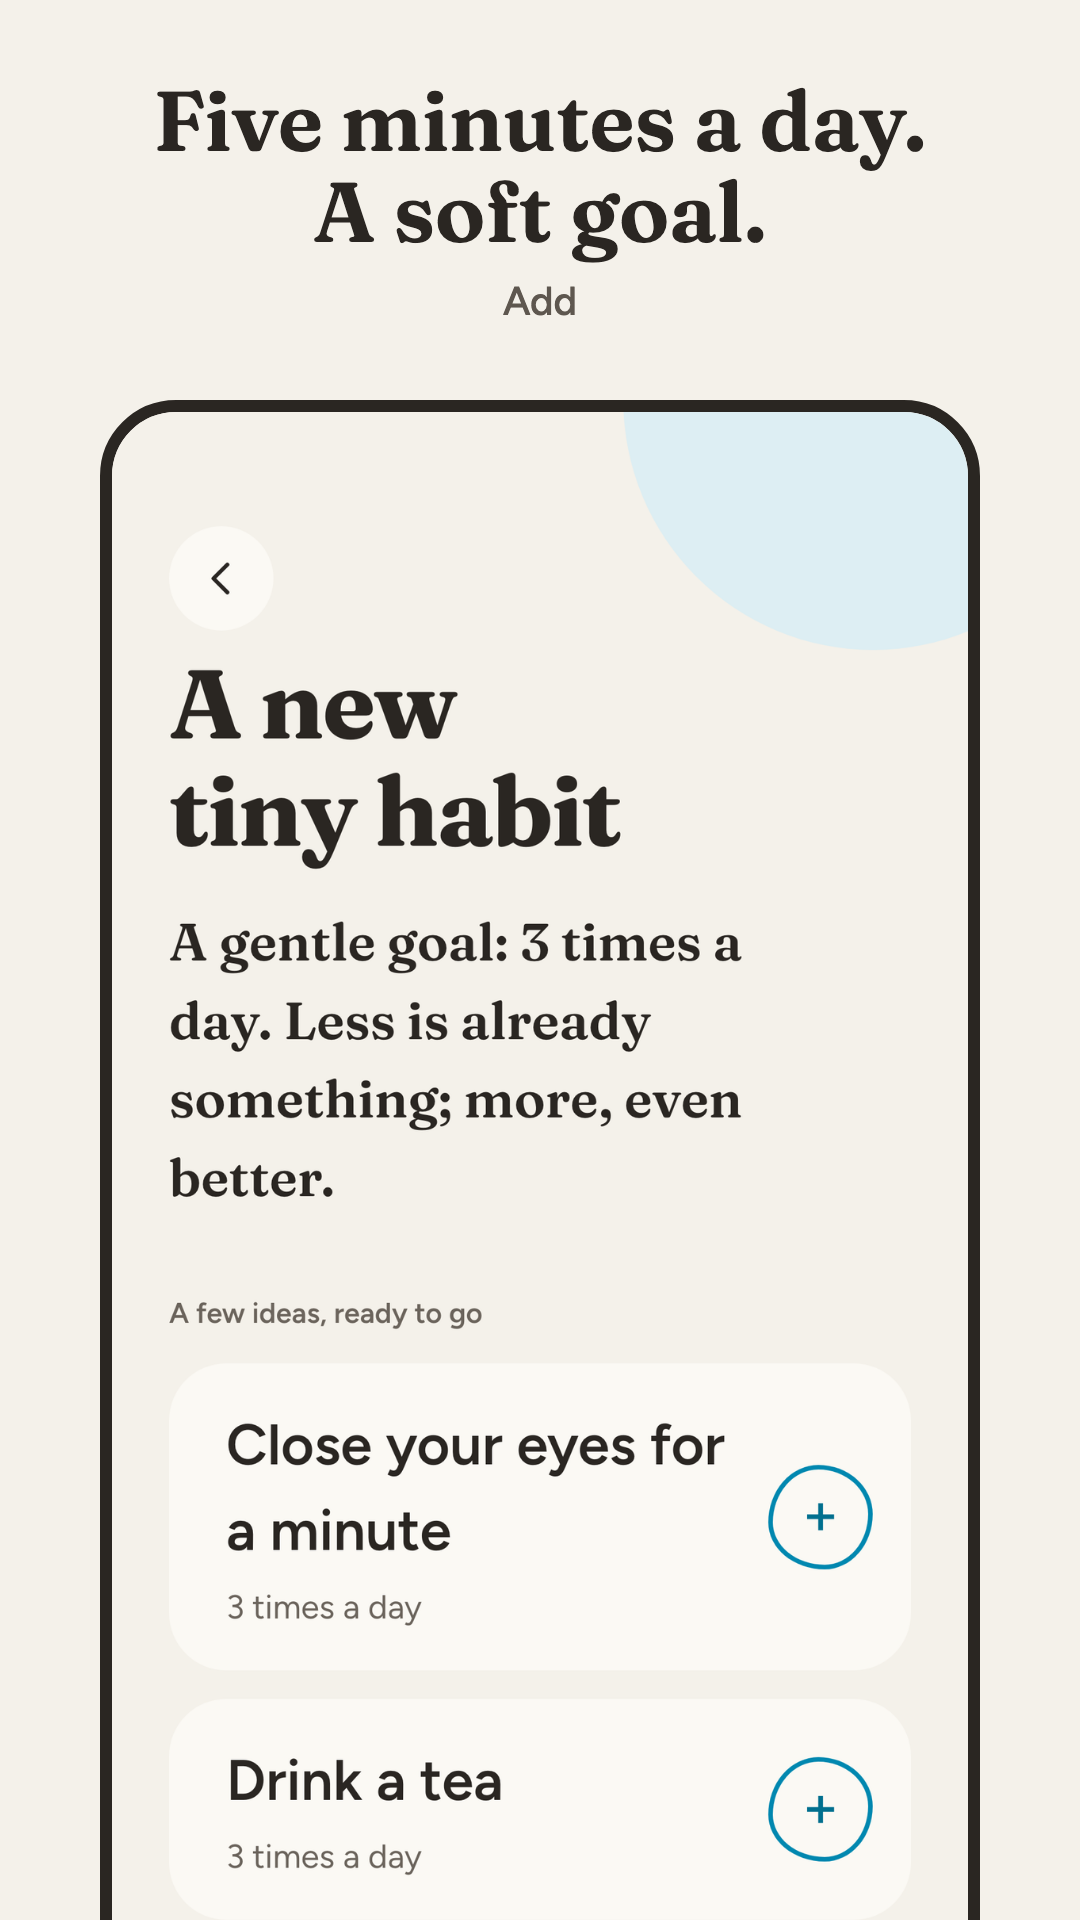
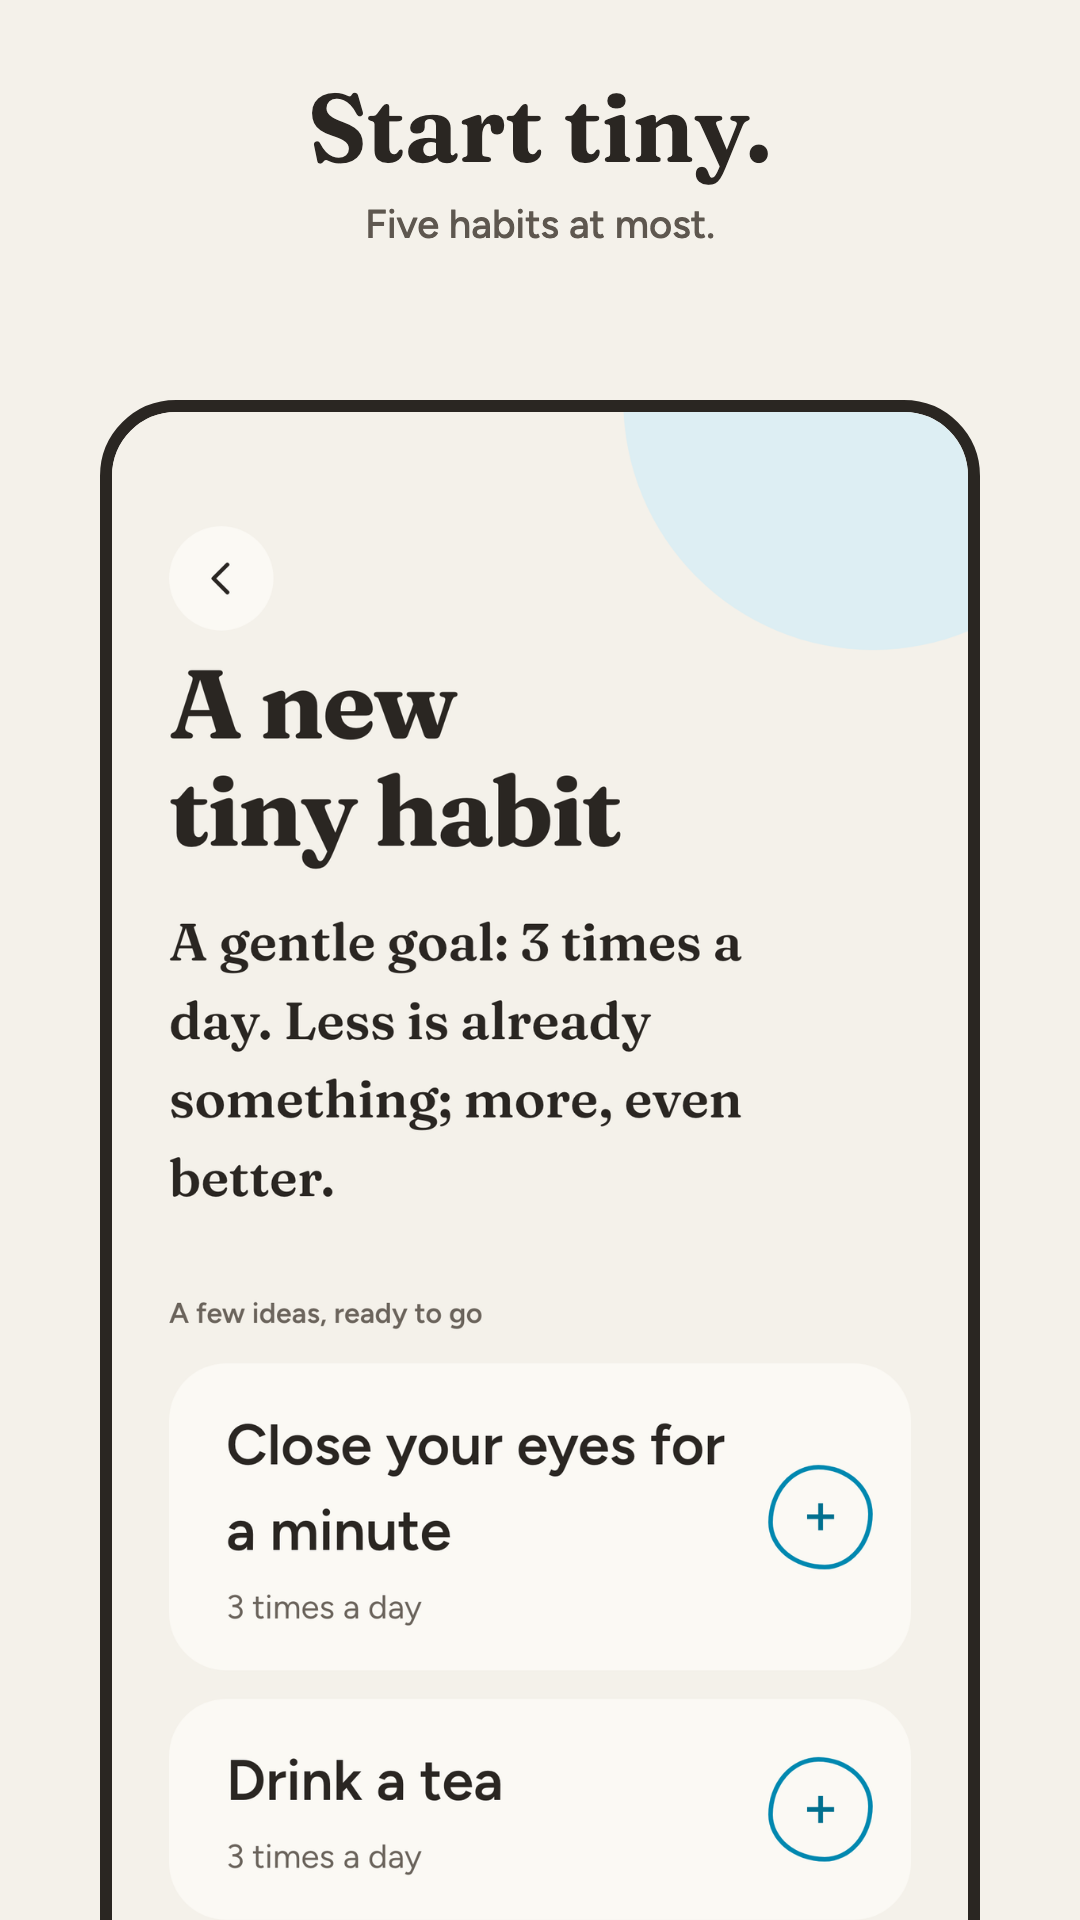
S41: store tiles carry the approved order, headlines and sublines

Changed region(s): [[0.1528, 0.0312, 0.8556, 0.1562], [0.4583, 0.1562, 0.5194, 0.1875]]

diff --git a/store/listing/build_store_tiles.py b/store/listing/build_store_tiles.py
@@ -48,22 +48,25 @@ MUTED = "#5E574F"
 
 TILES = {
     "fr": [
-        ("01-aujourdhui", 0, "Cinq habitudes au plus.<br>Jamais six.", "Aujourd'hui"),
-        ("02-detail", 0, "Sept jours, sans note<br>ni pourcentage.", "Le détail"),
-        ("03-rituel", 0, "Un cercle qui respire.<br>Rien d'autre à faire.", "Le rituel"),
-        ("04-semaine", 0, "Ce qui a eu lieu.<br>Rien de plus.", "La semaine"),
-        ("05-ancrees", 0, "Une habitude ancrée<br>libère une place.", "Ancrées"),
-        ("06-ajouter", 0, "Cinq minutes par jour.<br>Un but souple.", "Ajouter"),
+        ("01-aujourdhui", "01-aujourdhui", 0, "Un petit pas suffit.", "Pas de série, pas de pression."),
+        ("02-detail", "02-detail", 0, "Un jour sans ? Rien ne casse.", "Aucune série à protéger."),
+        ("03-semaine", "04-semaine", 0, "Votre rythme, pas le nôtre.", "Plus ou moins : vous décidez."),
+        ("04-rituel", "03-rituel", 0, "Un moment pour vous.", "Arrêter n'est pas échouer."),
+        ("05-ancrees", "05-ancrees", 0, "Devenue naturelle ? Ancrez-la.", "Elle libère une place."),
+        ("06-ajouter", "06-ajouter", 0, "Commencez tout petit.", "Cinq habitudes au plus."),
     ],
     "en": [
-        ("01-aujourdhui", 0, "Five habits at most.<br>Never six.", "Today"),
-        ("02-detail", 0, "Seven days, no score<br>and no percentage.", "The detail"),
-        ("03-rituel", 0, "A circle that breathes.<br>Nothing else to do.", "The ritual"),
-        ("04-semaine", 0, "What happened.<br>Nothing more.", "This week"),
-        ("05-ancrees", 0, "An anchored habit<br>frees a seat.", "Anchored"),
-        ("06-ajouter", 0, "Five minutes a day.<br>A soft goal.", "Add"),
+        ("01-aujourdhui", "01-aujourdhui", 0, "One small step is enough.", "No streaks, no pressure."),
+        ("02-detail", "02-detail", 0, "Skip a day. Nothing breaks.", "No streak to protect."),
+        ("03-semaine", "04-semaine", 0, "Your pace, not ours.", "More or less: you decide."),
+        ("04-rituel", "03-rituel", 0, "A moment for yourself.", "Stopping isn't failing."),
+        ("05-ancrees", "05-ancrees", 0, "Became natural? Anchor it.", "It frees up a seat."),
+        ("06-ajouter", "06-ajouter", 0, "Start tiny.", "Five habits at most."),
     ],
 }
+
+HEADLINE_MAX_WORDS = 7
+SUBLINE_MAX_WORDS = 6
 
 TILE_HTML = """<!doctype html>
 <meta charset="utf-8">
@@ -90,7 +93,7 @@ TILE_HTML = """<!doctype html>
   .copy {{ position: absolute; top: 76px; left: 48px; right: 48px; }}
   .headline {{
     font-family: 'Fraunces', Georgia, serif;
-    font-size: 84px;
+    font-size: 96px;
     line-height: 1.08;
     color: {ink};
     font-variation-settings: 'wght' 620, 'opsz' 72, 'SOFT' 30;
@@ -199,16 +202,26 @@ def check_text_band(img):
         raise ValueError(f"text band is {last + 1}px tall, the limit is {BAND_MAX}px")
 
 
+def check_copy(headline, subline):
+    if len(headline.split()) > HEADLINE_MAX_WORDS:
+        raise ValueError(f"headline has more than {HEADLINE_MAX_WORDS} words: {headline!r}")
+    if len(subline.split()) > SUBLINE_MAX_WORDS:
+        raise ValueError(f"subline has more than {SUBLINE_MAX_WORDS} words: {subline!r}")
+
+
 def check_clean_cuts(ink, crop_top):
+    if crop_top + VISIBLE_ROWS > len(ink):
+        raise ValueError(f"the bleed ends at capture row {crop_top + VISIBLE_ROWS}, past the {len(ink)} rows")
     for y in (crop_top, crop_top + VISIBLE_ROWS):
         if 0 < y < len(ink) and (ink[y - 1] or ink[y]):
             raise ValueError(f"the bleed cuts a line of text at capture row {y}")
 
 
-def compose(chrome, locale, name, crop_top, headline, subline, work):
+def compose(chrome, locale, name, capture, crop_top, headline, subline, work):
     from PIL import Image
 
-    shot = capture_path(locale, name)
+    check_copy(headline, subline)
+    shot = capture_path(locale, capture)
     check_clean_cuts(ink_rows(Image.open(shot)), crop_top)
 
     page = TILE_HTML.format(
@@ -219,7 +232,7 @@ def compose(chrome, locale, name, crop_top, headline, subline, work):
         phone_top=PHONE_TOP, phone_left=(TILE_W - PHONE_W) // 2,
         phone_w=PHONE_W, phone_h=TILE_H, frame=FRAME, screen_w=SCREEN_W,
         crop=round(crop_top * SCREEN_W / CAPTURE_W),
-        headline=headline, subline=html_escape.escape(subline),
+        headline=html_escape.escape(headline), subline=html_escape.escape(subline),
     )
 
     src = os.path.join(work, f"{name}-tile.html")
@@ -257,8 +270,8 @@ def main():
         work = os.path.join(WORK, locale)
         os.makedirs(work, exist_ok=True)
         os.makedirs(os.path.join(OUT, locale), exist_ok=True)
-        for name, crop_top, headline, subline in tiles:
-            path = compose(chrome, locale, name, crop_top, headline, subline, work)
+        for name, capture, crop_top, headline, subline in tiles:
+            path = compose(chrome, locale, name, capture, crop_top, headline, subline, work)
             print(f"  {os.path.relpath(path, ROOT)}")
 
 

diff --git a/store/listing/test_build_store_tiles.py b/store/listing/test_build_store_tiles.py
@@ -24,14 +24,60 @@ def sand_with_line(y0, y1):
     return img
 
 
+APPROVED = {
+    "fr": [
+        ("01-aujourdhui", "01-aujourdhui", 0, "Un petit pas suffit.", "Pas de série, pas de pression."),
+        ("02-detail", "02-detail", 0, "Un jour sans ? Rien ne casse.", "Aucune série à protéger."),
+        ("03-semaine", "04-semaine", 0, "Votre rythme, pas le nôtre.", "Plus ou moins : vous décidez."),
+        ("04-rituel", "03-rituel", 0, "Un moment pour vous.", "Arrêter n'est pas échouer."),
+        ("05-ancrees", "05-ancrees", 0, "Devenue naturelle ? Ancrez-la.", "Elle libère une place."),
+        ("06-ajouter", "06-ajouter", 0, "Commencez tout petit.", "Cinq habitudes au plus."),
+    ],
+    "en": [
+        ("01-aujourdhui", "01-aujourdhui", 0, "One small step is enough.", "No streaks, no pressure."),
+        ("02-detail", "02-detail", 0, "Skip a day. Nothing breaks.", "No streak to protect."),
+        ("03-semaine", "04-semaine", 0, "Your pace, not ours.", "More or less: you decide."),
+        ("04-rituel", "03-rituel", 0, "A moment for yourself.", "Stopping isn't failing."),
+        ("05-ancrees", "05-ancrees", 0, "Became natural? Anchor it.", "It frees up a seat."),
+        ("06-ajouter", "06-ajouter", 0, "Start tiny.", "Five habits at most."),
+    ],
+}
+
+
 class TilesTable(unittest.TestCase):
     def test_six_tiles_per_locale_each_with_a_capture_and_an_int_crop_top(self):
         t = load()
         for locale in ("fr", "en"):
             self.assertEqual(6, len(t.TILES[locale]))
-            for name, crop_top, headline, subline in t.TILES[locale]:
+            for name, capture, crop_top, headline, subline in t.TILES[locale]:
                 self.assertIsInstance(crop_top, int, name)
-                self.assertTrue(os.path.exists(t.capture_path(locale, name)), name)
+                self.assertTrue(os.path.exists(t.capture_path(locale, capture)), name)
+
+    def test_the_table_is_the_approved_copy_in_the_approved_order(self):
+        t = load()
+        for locale in ("fr", "en"):
+            with self.subTest(locale=locale):
+                self.assertEqual(APPROVED[locale], t.TILES[locale])
+
+
+class CopyStaysShort(unittest.TestCase):
+    def test_a_headline_of_five_words_passes(self):
+        t = load()
+        t.check_copy("Un petit pas suffit ici.", "Pas de série.")
+
+    def test_a_headline_of_eight_words_raises(self):
+        t = load()
+        with self.assertRaises(ValueError):
+            t.check_copy("Un petit pas suffit ici pour vous aujourd'hui.", "Pas de série.")
+
+    def test_a_subline_of_six_words_passes(self):
+        t = load()
+        t.check_copy("Un petit pas.", "Pas de série, pas de pression.")
+
+    def test_a_subline_of_seven_words_raises(self):
+        t = load()
+        with self.assertRaises(ValueError):
+            t.check_copy("Un petit pas.", "Pas de série, pas de pression, jamais.")
 
 
 class TextBandStaysWithin384(unittest.TestCase):
@@ -67,12 +113,19 @@ class TheBleedNeverCutsALineOfText(unittest.TestCase):
         ink = t.ink_rows(sand_with_line(300, 340))
         t.check_clean_cuts(ink, 0)
 
+    def test_a_crop_whose_bleed_runs_past_the_capture_raises(self):
+        t = load()
+        ink = [False] * 1920
+        t.check_clean_cuts(ink, 18)
+        with self.assertRaises(ValueError):
+            t.check_clean_cuts(ink, 19)
+
     def test_every_real_capture_is_cut_cleanly_at_its_crop_top(self):
         t = load()
         for locale in ("fr", "en"):
-            for name, crop_top, headline, subline in t.TILES[locale]:
+            for name, capture, crop_top, headline, subline in t.TILES[locale]:
                 with self.subTest(locale=locale, tile=name):
-                    ink = t.ink_rows(Image.open(t.capture_path(locale, name)))
+                    ink = t.ink_rows(Image.open(t.capture_path(locale, capture)))
                     t.check_clean_cuts(ink, crop_top)
 
 
